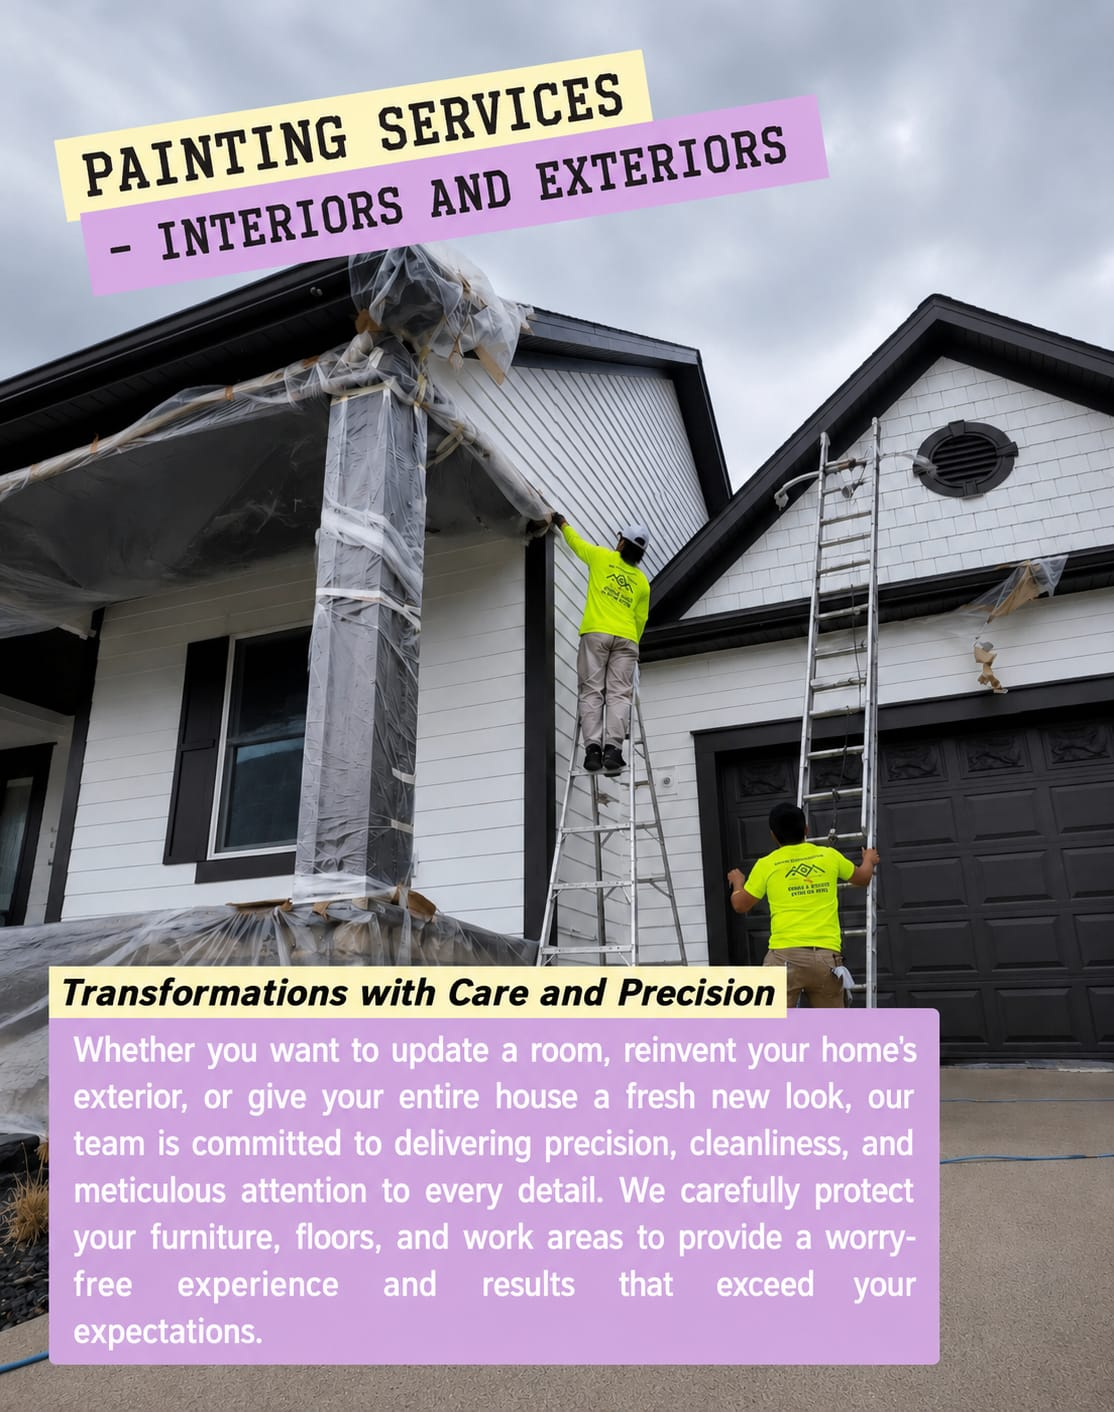
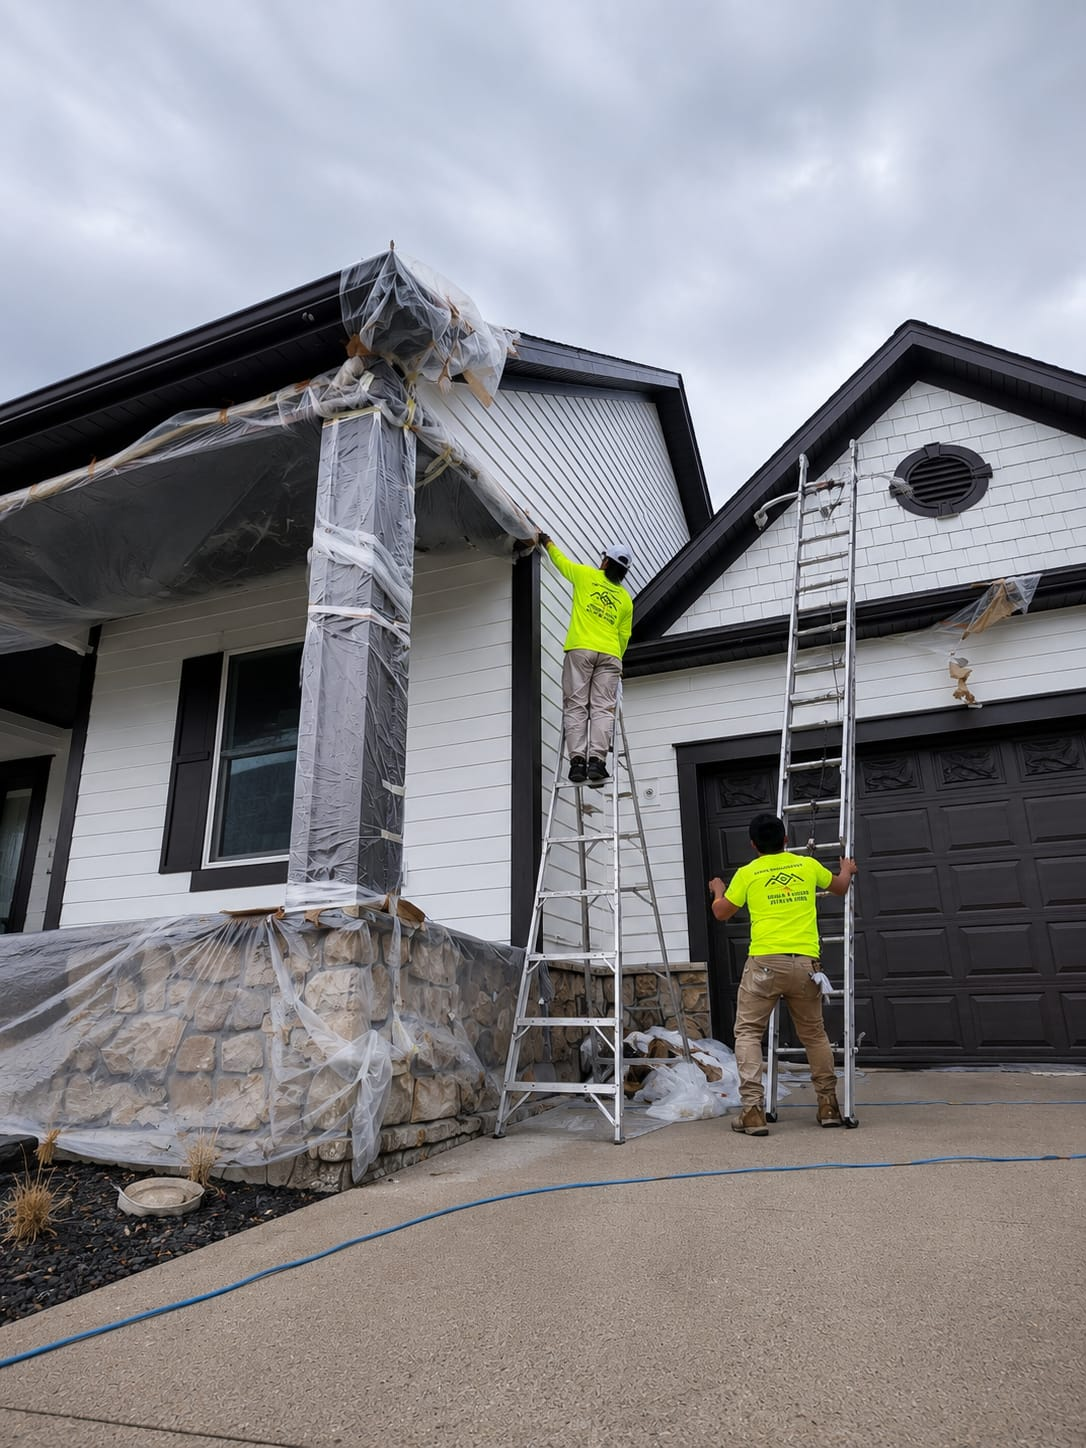
Servicio 1: texto

diff --git a/servicios/servicio1.html b/servicios/servicio1.html
@@ -444,14 +444,14 @@
     <!-- Testimonial End -->
 
     <!-- About Start -->
-    <div class="container-fluid py-5" style="margin-bottom: 190px">
+    <div class="container-fluid py-5">
       <div class="container py-5">
         <div class="row gx-0">
           <div class="col-lg-6" style="min-height: 400px">
             <div class="position-relative h-100">
               <img
-                class="position-absolute w-100 h-200"
-                src="/img/service1/service1.3.jpeg"
+                class="position-absolute w-100 h-100"
+                src="/img/service1/service1.2.jpeg"
                 style="object-fit: cover"
               />
             </div>
